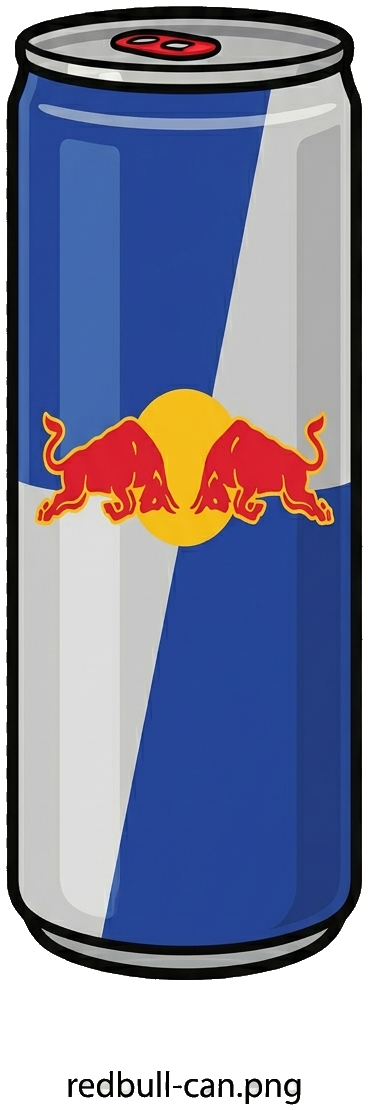
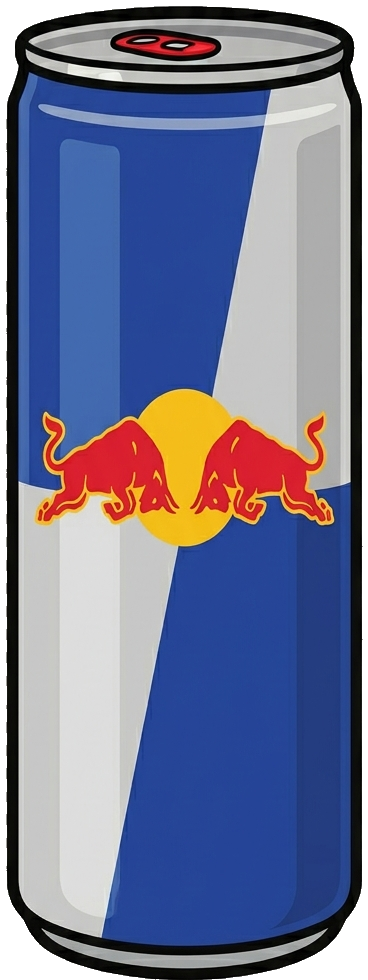
fix: polish Range Promotions card animation and crop can asset
- Retune the cart drop to a 3.9s gravity-drop with bounce; items fade in
  while falling and land inside the cart bowl instead of sagging below it.
- Crop the baked-in filename text off redbull-can.png and shrink the can
  height to match the new image proportions.

diff --git a/src/components/story-thumbnails.tsx b/src/components/story-thumbnails.tsx
@@ -1,48 +1,58 @@
 "use client";
 
-// 7s unified cycle — all timing baked into per-item keyframes, no delays needed.
-// Items start upright from upper-left (translate + rotate 0), fall into cart and
-// land tilted (~15–22 deg). Badge only appears after the last item settles (46%).
+// 3.9s gravity-drop cycle — items fall straight down (ease-in accelerate), overshoot
+// into the cart (21px) and rebound (8px) before settling tilted (~14–29 deg). Per-keyframe
+// timing functions carry the bounce; opacity fades in during the fall. Badge pops at 28%,
+// everything fades out 68–76%. Tuned values, baked in — see git history for the tuner.
 const RANGE_STYLE = `
   @keyframes rtFall1{
-    0%,100%{opacity:0;transform:translate(-100px,-90px) rotate(0deg)}
-    7%{opacity:1;transform:translate(-100px,-90px) rotate(0deg)}
-    22%,72%{opacity:1;transform:translate(0,0) rotate(18deg)}
-    82%{opacity:0;transform:translate(0,0) rotate(18deg)}
+    0%{opacity:0;transform:translate(0,-165px) rotate(2.3deg);animation-timing-function:ease-in}
+    3%{opacity:1}
+    12%{transform:translate(0,21px) rotate(28.8deg);animation-timing-function:cubic-bezier(.3,0,.5,1)}
+    18%{transform:translate(0,-8px) rotate(18.9deg);animation-timing-function:cubic-bezier(.4,0,.6,1)}
+    24.5%{transform:translate(0,0) rotate(23deg)}
+    68%{opacity:1;transform:translate(0,0) rotate(23deg)}
+    76%,100%{opacity:0;transform:translate(0,0) rotate(23deg)}
   }
   @keyframes rtFall2{
-    0%,11%,100%{opacity:0;transform:translate(-120px,-88px) rotate(0deg)}
-    18%{opacity:1;transform:translate(-120px,-88px) rotate(0deg)}
-    33%,72%{opacity:1;transform:translate(0,0) rotate(-12deg)}
-    82%{opacity:0;transform:translate(0,0) rotate(-12deg)}
+    0%,6%{opacity:0;transform:translate(0,-165px) rotate(-1.4deg);animation-timing-function:ease-in}
+    9%{opacity:1}
+    18%{transform:translate(0,21px) rotate(-17.8deg);animation-timing-function:cubic-bezier(.3,0,.5,1)}
+    24%{transform:translate(0,-8px) rotate(-11.7deg);animation-timing-function:cubic-bezier(.4,0,.6,1)}
+    30.5%{transform:translate(0,0) rotate(-14.3deg)}
+    68%{opacity:1;transform:translate(0,0) rotate(-14.3deg)}
+    76%,100%{opacity:0;transform:translate(0,0) rotate(-14.3deg)}
   }
   @keyframes rtFall3{
-    0%,21%,100%{opacity:0;transform:translate(-140px,-90px) rotate(0deg)}
-    28%{opacity:1;transform:translate(-140px,-90px) rotate(0deg)}
-    43%,72%{opacity:1;transform:translate(0,0) rotate(22deg)}
-    82%{opacity:0;transform:translate(0,0) rotate(22deg)}
+    0%,12%{opacity:0;transform:translate(0,-165px) rotate(2.9deg);animation-timing-function:ease-in}
+    15%{opacity:1}
+    24%{transform:translate(0,21px) rotate(35.9deg);animation-timing-function:cubic-bezier(.3,0,.5,1)}
+    30%{transform:translate(0,-8px) rotate(23.6deg);animation-timing-function:cubic-bezier(.4,0,.6,1)}
+    36.5%{transform:translate(0,0) rotate(28.8deg)}
+    68%{opacity:1;transform:translate(0,0) rotate(28.8deg)}
+    76%,100%{opacity:0;transform:translate(0,0) rotate(28.8deg)}
   }
   @keyframes rtBadge{
-    0%,46%,100%{opacity:0;transform:scale(0.3)}
-    52%{opacity:1;transform:scale(1.15)}
-    58%,72%{opacity:1;transform:scale(1)}
-    82%{opacity:0;transform:scale(0.3)}
+    0%,28%{opacity:0;transform:scale(0.3)}
+    34%{opacity:1;transform:scale(1.18)}
+    40%,68%{opacity:1;transform:scale(1)}
+    76%,100%{opacity:0;transform:scale(0.3)}
   }
-  @keyframes rtGlow{0%,40%,100%{opacity:0}52%,72%{opacity:1}}
-  .rt-p1{transform-box:fill-box;transform-origin:center;animation:rtFall1 7s ease-in-out infinite}
-  .rt-p2{transform-box:fill-box;transform-origin:center;animation:rtFall2 7s ease-in-out infinite}
-  .rt-p3{transform-box:fill-box;transform-origin:center;animation:rtFall3 7s ease-in-out infinite}
-  .rt-badge{transform-box:fill-box;transform-origin:center;animation:rtBadge 7s ease-in-out infinite}
-  .rt-cglow{animation:rtGlow 7s ease-in-out infinite}
+  @keyframes rtGlow{0%,24%{opacity:0}34%,68%{opacity:1}76%,100%{opacity:0}}
+  .rt-p1{transform-box:fill-box;transform-origin:center;animation:rtFall1 3.9s infinite}
+  .rt-p2{transform-box:fill-box;transform-origin:center;animation:rtFall2 3.9s infinite}
+  .rt-p3{transform-box:fill-box;transform-origin:center;animation:rtFall3 3.9s infinite}
+  .rt-badge{transform-box:fill-box;transform-origin:center;animation:rtBadge 3.9s infinite}
+  .rt-cglow{animation:rtGlow 3.9s infinite}
 `;
 
-// Items positioned lower in the cart bowl (y≈134) so they sit inside visually.
-// Resting rotation is baked into the keyframe end state.
+// Resting y raised (~110–112) so bottle bottoms nest at ~172 — just inside the bowl
+// floor (~178) — with tops poking out the rim. Resting rotation is baked into the keyframe end.
 function RangeProducts() {
   return <>
-    <g className="rt-p1"><image href="/illustrations/pepsi-bottle.png"    x="156" y="134" width="20" height="60"/></g>
-    <g className="rt-p2"><image href="/illustrations/coca-cola-bottle.png" x="193" y="132" width="20" height="60"/></g>
-    <g className="rt-p3"><image href="/illustrations/redbull-can.png"      x="228" y="134" width="19" height="62"/></g>
+    <g className="rt-p1"><image href="/illustrations/pepsi-bottle.png"    x="156" y="112" width="20" height="60"/></g>
+    <g className="rt-p2"><image href="/illustrations/coca-cola-bottle.png" x="193" y="112" width="20" height="60"/></g>
+    <g className="rt-p3"><image href="/illustrations/redbull-can.png"      x="228" y="113" width="19" height="55"/></g>
   </>;
 }
 
